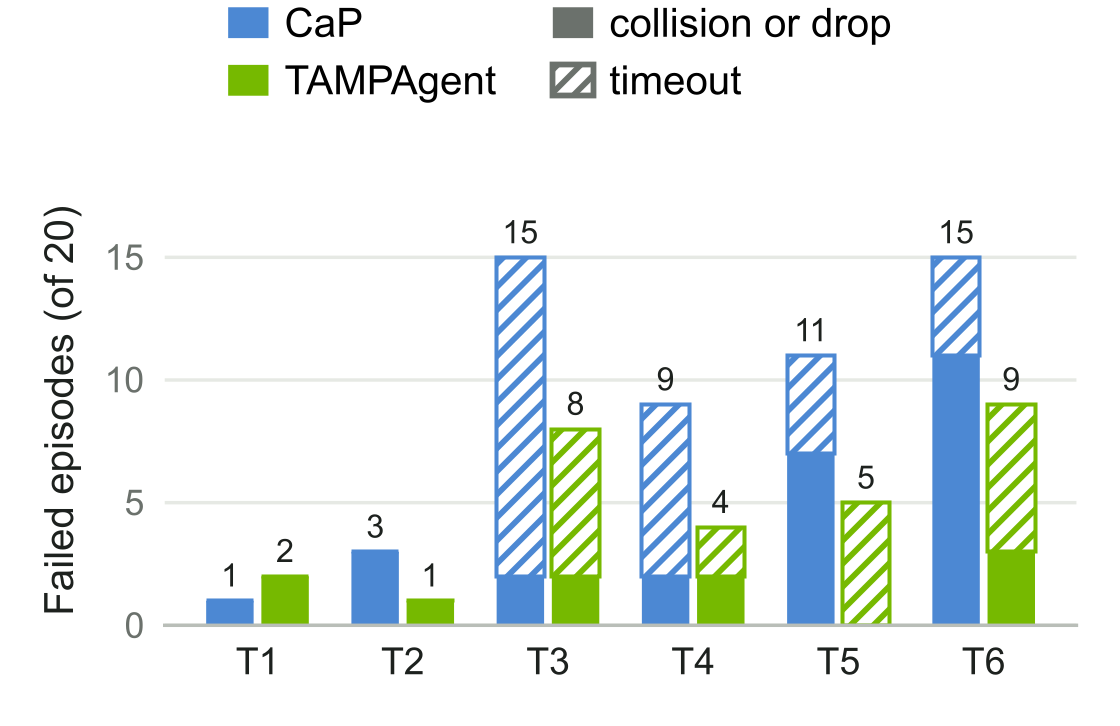
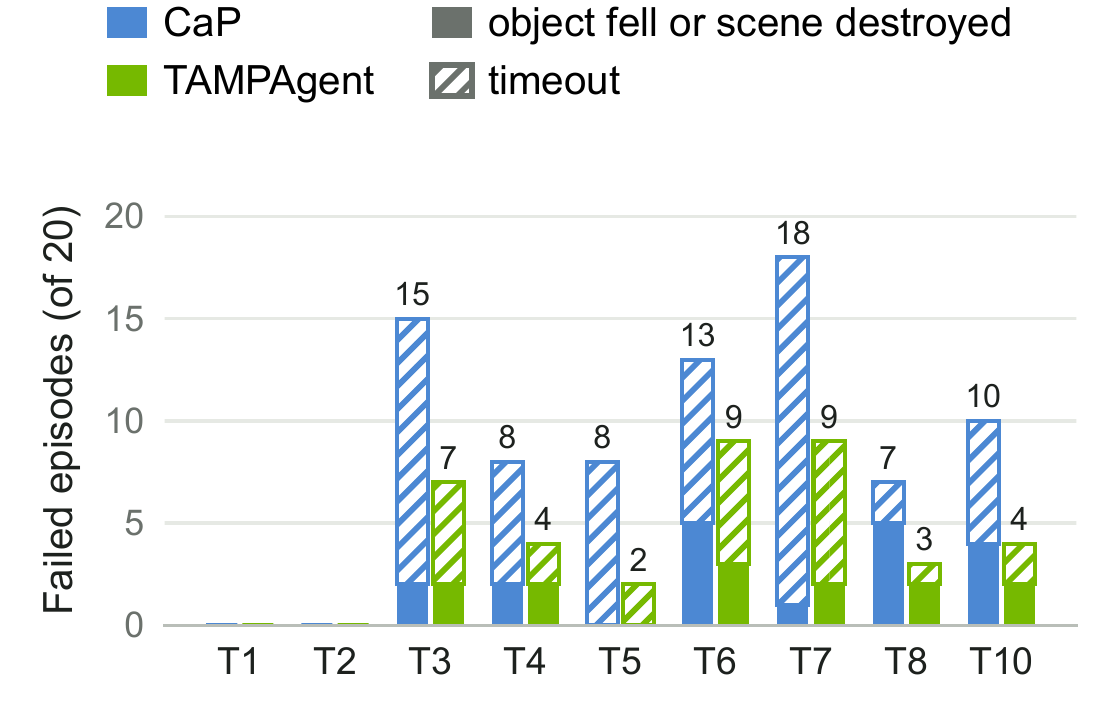
Results: nine simulated tasks, failures and token use updated

diff --git a/index.html b/index.html
@@ -188,7 +188,7 @@
         <div class="prose">
           <p class="section-kicker">Evaluation</p>
           <h2>Results</h2>
-          <p>Ten simulated tasks share one instruction, <em>serve the apple on the plate</em>, and differ in where the apple starts and what hides or blocks it. The robot, an RB-Y1, starts facing away from the apple every time. We compare against Code as Policies (CaP), where the same agent writes code that calls the same tools without a planner, over 20 episodes per task for T1 to T6. T7, T8 and T10 are further tasks shown as videos only; they are not in the charts. The charts are from the RB-Y1; the videos show rollouts on the RB-Y1 and on a Unitree G1.</p>
+          <p>Ten simulated tasks share one instruction, <em>serve the apple on the plate</em>, and differ in where the apple starts and what hides or blocks it. The robot, an RB-Y1, starts facing away from the apple every time. We compare against Code as Policies (CaP), where the same agent writes code that calls the same tools without a planner, over 20 episodes per task on nine of them (T1 to T8 and T10). CaP runs GPT-6-Astra at high reasoning effort and TAMPAgent at low, and each episode has 25 minutes of simulated time. The charts are from the RB-Y1; the videos show rollouts on the RB-Y1 and on a Unitree G1.</p>
         </div>
         <figure class="media">
           <img class="figure-img" src="figures/sim_tasks_grid.jpg" width="2848" height="654" loading="lazy" alt="Close-ups of the apple's surroundings in the ten simulated tasks: on the dining table, on the counter, inside the fridge, behind a cup, behind an open drawer, behind both, behind a cracker box, with a cracker box in front of the plate, behind a cup inside the fridge, and behind a mustard bottle">
@@ -207,7 +207,7 @@
 
         <div class="prose">
           <h3>Hypotheses and long-horizon dependencies</h3>
-          <p>The methods are on par when the apple is in the open (T1, T2). When it is hidden or blocked (T3 to T6), TAMPAgent succeeds in 68% of episodes against 38%. A plausible but infeasible plan, such as picking the apple through the cup, fails in the planner before the robot moves, and the failed constraint names what the agent must clear first.</p>
+          <p>The methods are on par when the apple is in the open (T1, T2). When it is hidden or blocked (T3 to T8 and T10), TAMPAgent succeeds in 70% of episodes against 38%. Over all nine tasks, it succeeds in 75% against 49%. A plausible but infeasible plan, such as picking the apple through the cup, fails in the planner before the robot moves, and the failed constraint names what the agent must clear first.</p>
         </div>
         <figure class="media">
           <img class="figure-img" src="figures/rby1_success.png" width="2000" height="546" loading="lazy" alt="Absolute and partial success per task for CaP and TAMPAgent">
@@ -215,17 +215,17 @@
         </figure>
 
         <div class="prose">
-          <h3>Safer execution</h3>
-          <p>Every motion TAMPAgent executes was certified first, so it causes 10 collisions or drops over the six tasks against 26 for CaP, and none on the drawer task, where CaP collides in 7 of 20 episodes. Its failures are mostly timeouts instead, which leave the scene intact.</p>
+          <h3>Fewer failures</h3>
+          <p>An episode fails when an object falls or the scene is destroyed, or when its time runs out. Every motion TAMPAgent executes was certified first, so over the nine tasks it drops an object or destroys the scene in 13 episodes against 19 for CaP, and it times out in 25 against 60.</p>
         </div>
         <figure class="media narrow">
-          <img class="figure-img" src="figures/rby1_failures.png" width="1120" height="726" loading="lazy" alt="Failed episodes per task for CaP and TAMPAgent, split into collisions or drops and timeouts">
-          <figcaption>Failed episodes out of 20: collisions or drops (solid) and timeouts (hatched).</figcaption>
+          <img class="figure-img" src="figures/rby1_failures.png" width="1120" height="726" loading="lazy" alt="Failed episodes per task for CaP and TAMPAgent, split into an object falling or the scene destroyed, and timeouts">
+          <figcaption>Failed episodes out of 20: an object fell or the scene was destroyed (solid), and timeouts (hatched).</figcaption>
         </figure>
 
         <div class="prose">
           <h3>Fewer tokens</h3>
-          <p>The planner keeps a compact record of the problem and its progress, so the agent reads and writes less: 38% fewer uncached input tokens and 59% fewer output tokens over the six tasks, including those where success is on par.</p>
+          <p>The planner keeps a compact record of the problem and its progress, so the agent reads and writes less: 22% fewer uncached input tokens and 33% fewer output tokens over the nine tasks, including those where success is on par.</p>
         </div>
         <figure class="media">
           <img class="figure-img" src="figures/rby1_tokens.png" width="2000" height="546" loading="lazy" alt="Uncached input and output tokens per task for CaP and TAMPAgent">
